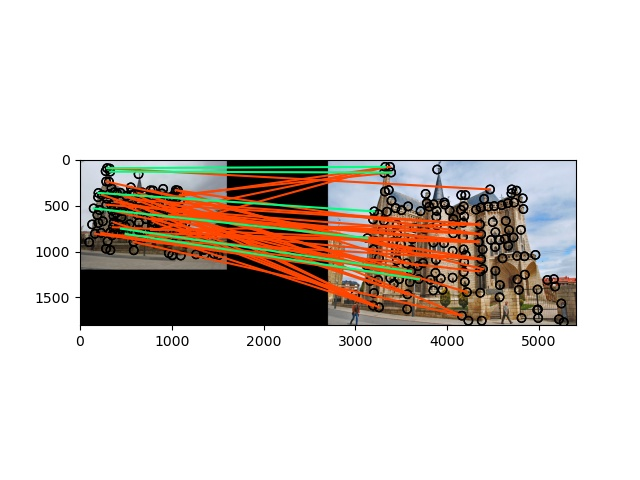
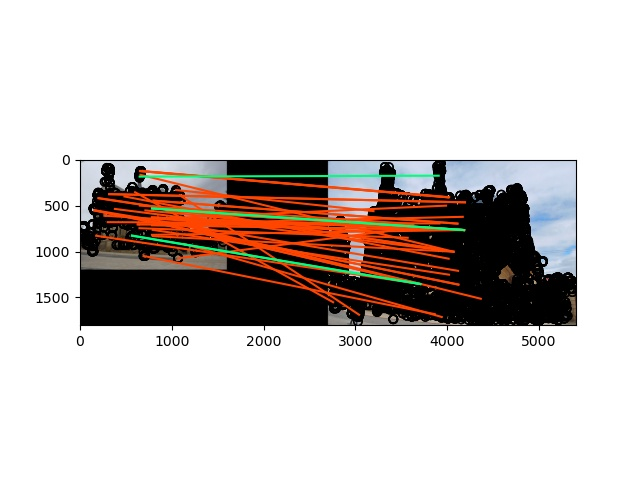
Done???

Changed region(s): [[0.125, 0.3438, 0.9062, 0.6875]]

diff --git a/Local Feature Matching/code/student.py b/Local Feature Matching/code/student.py
@@ -25,11 +25,15 @@ def getSobelFilter(axis = 1):
 
 def getDistanceMatrix(features1, features2, featureNumber1, featureNumber2):
     expandedFeatures1 = np.repeat(features1, repeats = featureNumber2, axis = 0)
-    expandedFeatures2 = np.tile(features2, (featureNumber1, 1))
+    expandedFeatures1 = expandedFeatures1 - np.tile(features2, (featureNumber1, 1))
 
-    expandedFeatures1 = expandedFeatures1 - expandedFeatures2
     expandedFeatures1 = expandedFeatures1 ** 2
     return np.sqrt(expandedFeatures1.sum(axis = 1).reshape((featureNumber1, featureNumber2)))
+
+def getDistanceArray(features1, features2):
+    temp = features2 -features1
+    temp = temp ** 2
+    return np.sqrt(np.sum(temp, axis=1))
 
 def getNormalizedPatches(image, x, y, featureWidth = 16):
     rowNumber = image.shape[0]
@@ -55,6 +59,7 @@ def getScaleInvariantFeature(image, x, y, featureWidth = 16):
     rowNumber = image.shape[0]
     colNumber = image.shape[1]
     offset = np.uint16(featureWidth / 2)
+    cell = np.uint16(featureWidth / 4)
 
     sobelFilter = getSobelFilter()
     gaussianFilter = getGaussianFilter(int(offset), int(offset))
@@ -69,11 +74,11 @@ def getScaleInvariantFeature(image, x, y, featureWidth = 16):
         sobelFilterOctave[i, :] = sobelFilter
 
     for i in range(8):
-        imageOctave[i, :] = convolve2d(image, sobelFilterOctave[i], mode = 'same')
+        imageOctave[i, :] = np.array(convolve2d(image, sobelFilterOctave[i], mode = 'same'))
 
-    imageOctave = [convolve2d(x, gaussianFilter, mode = 'same') for x in imageOctave]
-    
-    features = np.ones((len(x), 128))
+    print("AAAAAAA")
+    imageOctave = np.array([convolve2d(x, gaussianFilter, mode = 'same') for x in imageOctave])
+    features = np.ones((len(x), 128), dtype = 'float32')
     for i in range(len(x)):
         xCenter = np.uint16(x[i])
         yCenter = np.uint16(y[i]) 
@@ -82,16 +87,26 @@ def getScaleInvariantFeature(image, x, y, featureWidth = 16):
             rightBound = np.uint16(x[i]) + offset
             topBound = np.uint16(y[i]) - offset
             bottomBound = np.uint16(y[i]) + offset
-
-            histogram = np.zeros((1, 128))
-            for j in range(8):
-                layerImage = np.array(imageOctave[j])
-                featureWindow = np.array(layerImage[topBound : bottomBound, leftBound : rightBound])
-                featureWindow = np.split(featureWindow, 4, axis=0)
-                featureWindow = np.array([np.split(x, 4, axis = 1) for x in featureWindow])
-                histogramPart = (np.array([[y.sum() for y in x] for x in featureWindow])).flatten()
-                for k in range(16):
-                    histogram[0, j + 8 * k] = histogramPart[k]
+            featureWindow = np.array(imageOctave[:, topBound : bottomBound, leftBound : rightBound])
+            histogram = np.array([])
+            # for j in range(8):
+            #     layerImage = np.array(imageOctave[j])
+            #     featureWindow = np.array(layerImage[topBound : bottomBound, leftBound : rightBound])
+            #     # featureWindow = np.split(featureWindow, 4, axis=0)
+            #     # featureWindow = np.array([np.split(x, 4, axis = 1) for x in featureWindow])
+            #     # histogramPart = (np.array([[y.sum() for y in x] for x in featureWindow])).flatten()
+            #     # for k in range(16):
+            #     #     histogram[0, j + 8 * k] = histogramPart[k]
+            #     c = j
+            #     for m in range(4):
+            #         for n in range(4):
+            #             cellWindow = featureWindow[4*m : 4*m + cell, 4*n : 4*n + cell]
+            #             histogram[0, c] = np.sum(cellWindow)
+            #             c = c + 8
+            for m in range(4):
+                for n in range(4):
+                    cellWindow = np.sum(np.sum(featureWindow[:, 4*m : 4 *m + cell, 4*n:4*n+cell], axis = 1), axis = 1).flatten()
+                    histogram = np.concatenate((histogram, cellWindow), axis = None)
             histogram = histogram / np.linalg.norm(histogram)
             features[i, :] = histogram
     return features
@@ -138,12 +153,12 @@ def get_interest_points(image, feature_width):
     '''
 
     # TODO: Your implementation here! See block comments and the project webpage for instructions
-    smoothSmallFilter = getGaussianFilter(3, 1)
-    smoothLargeFilter = getGaussianFilter(9, 2)
+    # smoothSmallFilter = getGaussianFilter(3, 1)
+    smoothLargeFilter = getGaussianFilter(6, 1)
 
-    smoothImage = convolve2d(image, smoothSmallFilter, mode = 'same')
-    derivativeXImage = convolve2d(smoothImage, getSobelFilter(axis = 0), mode = 'same')
-    derivativeYImage = convolve2d(smoothImage, getSobelFilter(axis = 1), mode = 'same')
+    # smoothImage = convolve2d(image, smoothSmallFilter, mode = 'same')
+    derivativeXImage = convolve2d(image, getSobelFilter(axis = 0), mode = 'same')
+    derivativeYImage = convolve2d(image, getSobelFilter(axis = 1), mode = 'same')
 
     derivativeXXImage = derivativeXImage * derivativeXImage
     derivativeYYImage = derivativeYImage * derivativeYImage
@@ -161,23 +176,22 @@ def get_interest_points(image, feature_width):
     suppressMatrix = np.zeros(image.shape)
     suppressMatrix[feature_width : image.shape[0] - feature_width, feature_width : image.shape[1] - feature_width] = 1
 
-    localMaxima = []
-    suppressHarrisMatrix = harrisMatrix * suppressMatrix
+    localMaxima = np.zeros(image.shape)
+    suppressHarrisMatrix = harrisMatrix * 1
     for i in range(feature_width, image.shape[0] - feature_width):
         for j in range(feature_width, image.shape[1] - feature_width):
-            localMatrix = suppressHarrisMatrix[i : i + feature_width, j : j + feature_width]
-            localIndex = np.argmax(localMatrix)
-            A = suppressHarrisMatrix[localIndex // feature_width + i, localIndex % feature_width + j] 
-            B = suppressHarrisMatrix[i, j]
-            if  A == B and A >= 0.1:
-                localMaxima.extend([[localIndex // feature_width + i, localIndex % feature_width + j]])
+            localMaxima[i, j] = np.max(suppressHarrisMatrix[i : i + feature_width, j : j + feature_width])
 
-    localMaxima = np.unique(localMaxima, axis = 0)
-    x = [item[0] for item in localMaxima]
-    y = [item[1] for item in localMaxima]
-    xs = np.array(x)
-    ys = np.array(y)
+    interestPoints =[]
+    globalMaxima = np.max(suppressHarrisMatrix)
+    localMaxima = (localMaxima == suppressHarrisMatrix)
+    for i in range(feature_width, image.shape[0] - feature_width):
+        for j in range(feature_width, image.shape[1] - feature_width):
+            if(localMaxima[i, j]) and suppressHarrisMatrix[i, j] >= (globalMaxima * 0.005):
+                interestPoints.extend([[i, j]])
 
+    xs = np.array([item[0] for item in interestPoints])
+    ys = np.array([item[1] for item in interestPoints])
     return ys, xs
 
 
@@ -282,8 +296,9 @@ def match_features(im1_features, im2_features):
     featureNumber1 = im1_features.shape[0]
     featureNumber2 = im2_features.shape[0]
     
-    distanceMatrix = getDistanceMatrix(im1_features, im2_features, featureNumber1, featureNumber2)
+    # distanceMatrix = getDistanceMatrix(im1_features, im2_features, featureNumber1, featureNumber2)
     # distanceMatrix = cdist(im1_features, im2_features, 'euclidean')
+    distanceMatrix = np.array([getDistanceArray(x, im2_features) for x in im1_features])
 
     indexSortedMatrix = np.zeros((featureNumber1, featureNumber2))
 

diff --git a/Local Feature Matching/code/main.py b/Local Feature Matching/code/main.py
@@ -135,6 +135,7 @@ def main():
     (x1, y1) = student.get_interest_points(image1,feature_width)
     (x2, y2) = student.get_interest_points(image2,feature_width)
     print(len(x1))
+    print(len(x2))
     # For development and debugging get_features and match_features, you will likely
     # want to use the ta ground truth points, you can comment out the precedeing two
     # lines and uncomment the following line to do this. Note that the ground truth
@@ -145,13 +146,13 @@ def main():
     # print(len(x1))
     # if you want to view your corners uncomment these next lines!
 
-    plt.imshow(image1, cmap="gray")
-    plt.scatter(x1, y1, alpha=0.9, s=3)
-    plt.show()
+    # plt.imshow(image1, cmap="gray")
+    # plt.scatter(x1, y1, alpha=0.9, s=3)
+    # plt.show()
 
-    plt.imshow(image2, cmap="gray")
-    plt.scatter(x2, y2, alpha=0.9, s=3)
-    plt.show()
+    # plt.imshow(image2, cmap="gray")
+    # plt.scatter(x2, y2, alpha=0.9, s=3)
+    # plt.show()
 
     print("Done!")
 

diff --git a/test.py b/test.py
@@ -58,3 +58,10 @@ def get_interest_points(image, feature_width):
     ys = np.array(y)
 
     return ys, xs
+
+K = np.ones((8,8))
+A = np.array([np.ones((8,8)), 2*np.ones((8,8)), 3*np.ones((8,8))])
+B = np.array([[1,2,3],[3,4,99],[5,6,9]])
+C = np.array(np.sum(np.sum(A[:,2:4,2:4], axis = 1), axis = 1))
+print(C)
+print(C.shape)
